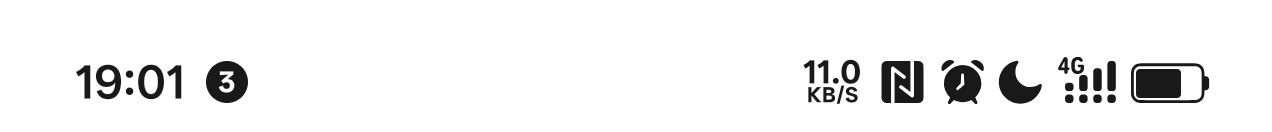
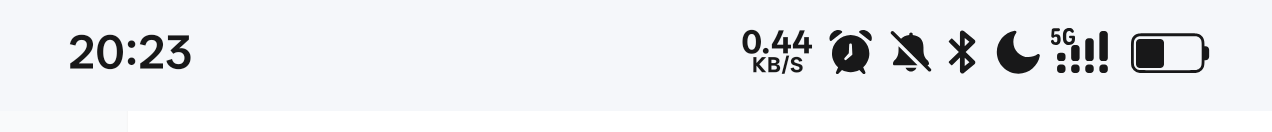
发布 v1.8：修复蓝牙图标异常显示

Changed region(s): [[0.5825, 0.2121, 0.9505, 0.7879], [0.0307, 0.2424, 0.2146, 0.7879]]

diff --git a/src/io/github/hoerire/stacksig/Engine.java b/src/io/github/hoerire/stacksig/Engine.java
@@ -62,7 +62,8 @@ public final class Engine {
     // ==================== 图标间距（信号 ↔ WiFi 收紧） ====================
 
     /** 信号那格右侧收掉的宽度（px）。实测 1px 收 = 2px 缝，所以 -4 正好把 23px 缝收到 15px。 */
-    private static final int GAP_INSET_PX = 2;
+    // 所有普通格的左右 padding 基准。整簇偏宽就往小调，偏窄就往大调 —— 只改这一个数。
+    private static final int GAP_INSET_PX = 0;
     private static int SLOTS_LOGGED = 0;
     private static long LAST_GAP_LOG = 0;
 
@@ -73,13 +74,15 @@ public final class Engine {
     // 不再用负 padding 硬拽（负值会同时影响本格右侧和下一格左侧，一改就乱）。
     // 在上一版基础上整体再收 1/3：各 padEnd 都给一个小负值，负数把「本格→右侧」的缝压窄。
     // 只用 padding，不动任何 View 的宽高，图标本身大小不变。
+    private static final int PAD_BT_START = 2;
+    private static final int PAD_BT_END = 6;    // 右边挨着 5G 徽标，要比普通格宽
     private static final int PAD_NFC_END = -5;
-    private static final int PAD_CLOCK_END = 3;   // 正值才把闹钟往左推；负值会让它更贴信号
+    private static final int PAD_CLOCK_END = 2;   // 中性值；右邻是哪个图标不固定，不能按单图标调
     private static final int PAD_ZEN_START = 0;   // 月亮 ↔ 信号（改这个只会动左侧，右侧是素材留白）
     private static final int PAD_ZEN_END = -4;
     private static final int PAD_SPEED_START = 0;
     private static final int PAD_SPEED_END = -3;   // 网速 → NFC
-    private static final int PAD_SIGNAL_START = 0;  // 不要动：调它会把信号整格推走，电池就远离了
+    private static final int PAD_SIGNAL_START = 0;  // 不要动：会推走右侧一切
     private static final int PAD_SIGNAL_END = -4;  // 信号 → WiFi
     private static final int PAD_WIFI_END = -4;    // WiFi → 电池
 
@@ -211,27 +214,238 @@ public final class Engine {
     }
 
     /** 各格左右 padding 的表。键是 View 在 SIC 里的 id；id 为 null 的按位置从左到右取 null1/null2/null3。 */
-    private static int[] gapFor(View v, int nullRank) {
-        String id = entryName(v);
-        if (id == null) {
-            // 无名 StatIconView：优先用 slot 名定位（图标显隐不影响），拿不到才退回可见序号
-            String slot = slotOf(v);
-            if (slot != null) {
-                if (slot.contains("nfc"))   return new int[]{GAP_INSET_PX, PAD_NFC_END};
-                if (slot.contains("alarm")) return new int[]{GAP_INSET_PX, PAD_CLOCK_END};
-                if (slot.contains("zen"))   return new int[]{PAD_ZEN_START, PAD_ZEN_END};
+
+    // ==================== 间距自适应 ====================
+
+    /** 目标：相邻图标的「墨迹」之间留这么多像素（会被 MIN/MAX 夹住） */
+    private static final int GAP_TARGET = 16;
+    private static final int GAP_MIN = 10;      // 间距下限：再挤就重叠了
+    private static final int GAP_MAX = 24;      // 间距上限：再大就显得稀疏
+
+    /**
+     * 每格的墨迹左右内缩量（px），由实测得出后缓存。
+     *
+     * 做法：把 View 画到一张临时 Bitmap 上，扫描非透明像素的左右边界，
+     * 得到「View 左缘 → 墨迹左缘」和「墨迹右缘 → View 右缘」两段留白。
+     * 素材留白是固定的，所以只需算一次（View 宽变了才重算）。
+     */
+    private static String lastBalanceSig = "";
+    private static final java.util.WeakHashMap<View, int[]> INK_INSET = new java.util.WeakHashMap<>();
+    private static final java.util.WeakHashMap<View, Integer> INK_W = new java.util.WeakHashMap<>();
+
+    private static int[] inkInset(View v) {
+        int w = v.getWidth(), h = v.getHeight();
+        if (w <= 0 || h <= 0) return null;
+        Integer cachedW = INK_W.get(v);
+        if (cachedW != null && cachedW == w) {
+            int[] c = INK_INSET.get(v);
+            if (c != null) return c;
+        }
+        try {
+            android.graphics.Bitmap bmp = android.graphics.Bitmap.createBitmap(
+                    w, h, android.graphics.Bitmap.Config.ALPHA_8);
+            android.graphics.Canvas cv = new android.graphics.Canvas(bmp);
+            v.draw(cv);
+            int left = -1, right = -1;
+            int[] row = new int[w];
+            for (int y = 0; y < h; y++) {
+                bmp.getPixels(row, 0, w, 0, y, w, 1);
+                for (int x = 0; x < w; x++) {
+                    if ((row[x] & 0xFF) != 0) {
+                        if (left < 0 || x < left) left = x;
+                        if (x > right) right = x;
+                    }
+                }
             }
-            switch (nullRank) {
-                case 1:  return new int[]{GAP_INSET_PX, PAD_NFC_END};
-                case 2:  return new int[]{GAP_INSET_PX, PAD_CLOCK_END};
-                case 3:  return new int[]{PAD_ZEN_START, PAD_ZEN_END};
-                default: return new int[]{GAP_INSET_PX, GAP_INSET_PX};
+            bmp.recycle();
+            if (left < 0) return null;                 // 整格全透明，不参与计算
+            int[] r = new int[]{left, w - 1 - right};
+            INK_INSET.put(v, r);
+            INK_W.put(v, w);
+            return r;
+        } catch (Throwable t) {
+            return null;
+        }
+    }
+
+    /**
+     * 按实测墨迹把间距拉齐。
+     *
+     * 对每对相邻图标：当前墨迹缝 = 右格墨迹左缘 - 左格墨迹右缘。
+     * 与目标值的差，一半由左格 paddingEnd 吸收、一半由右格 paddingStart 吸收。
+     * 差值先夹到 [GAP_MIN, GAP_MAX] 范围内允许的调整量，避免把某一格压扁。
+     */
+    /**
+     * 把每格的 View 宽度固定成「图标真实宽度 + 固定间距」。
+     *
+     * StatusIconContainer.updateStates() 从右往左累加 width + padStart + padEnd
+     * 得到每格的 translationX —— 只要 width 恒定，缝就恒定，与图标组合无关。
+     * 图标本身大小不变：只是把 View 里那圈多余的透明留白裁掉。
+     */
+    private static final int CELL_GAP_PX = 14;
+    /** 信号格左侧给制式标预留的宽度（px）。WiFi 那格减半抵消，电池位置基本不变。 */
+    private static final int BADGE_LEFT_RESERVE_PX = 12;
+
+
+    /**
+     * 实测一格里「看得见」的宽度：把 drawable 单独画到 Bitmap 上，扫非透明像素。
+     * 只画 drawable、不画 View，就绕开了 padding 和背景干扰。
+     */
+    private static int measureInkWidth(View v, ImageView iv) {
+        try {
+            android.graphics.drawable.Drawable d = iv.getDrawable();
+            if (d == null) return 0;
+            int w = iv.getWidth(), h = iv.getHeight();
+            if (w <= 0 || h <= 0) {
+                w = d.getIntrinsicWidth();
+                h = d.getIntrinsicHeight();
+            }
+            if (w <= 0 || h <= 0) return 0;
+            android.graphics.Bitmap bmp = android.graphics.Bitmap.createBitmap(
+                    w, h, android.graphics.Bitmap.Config.ALPHA_8);
+            android.graphics.Canvas cv = new android.graphics.Canvas(bmp);
+            d.setBounds(0, 0, w, h);
+            d.draw(cv);
+            int left = -1, right = -1;
+            int[] row = new int[w];
+            for (int y = 0; y < h; y++) {
+                bmp.getPixels(row, 0, w, 0, y, w, 1);
+                for (int x = 0; x < w; x++) {
+                    if ((row[x] & 0xFF) != 0) {
+                        if (left < 0) left = x;
+                        right = x;
+                    }
+                }
+            }
+            bmp.recycle();
+            return left < 0 ? 0 : (right - left + 1);
+        } catch (Throwable t) {
+            return 0;
+        }
+    }
+
+    private static void fixCellWidths(ViewGroup g) {
+        for (int i = 0; i < g.getChildCount(); i++) {
+            View v = g.getChildAt(i);
+            if (v.getVisibility() != View.VISIBLE || !isStatusIcon(v)) continue;
+            if (!(v instanceof ImageView)) continue;
+            android.graphics.drawable.Drawable d = ((ImageView) v).getDrawable();
+            if (d == null) continue;
+            // 用实测墨迹宽度，而不是 intrinsic——后者是素材原尺寸，
+            // 与屏幕上实际画出来的大小不一致（StatIconView 会按系统图标尺寸缩放）。
+            int iw = measureInkWidth(v, (ImageView) v);
+            if (iw <= 0) iw = d.getIntrinsicWidth();
+            if (iw <= 0) continue;
+            // 网速那格是 ViewGroup，墨迹只占左半边，右侧空白会把缝撑大。
+            // 改用内部文字的实际宽度。
+            String id0 = entryName(v);
+            if (id0 != null && id0.toLowerCase().contains("network_speed")) {
+                android.widget.TextView tv = findSpeedText(v, 0);
+                if (tv != null && tv.getPaint() != null) {
+                    CharSequence cs = tv.getText();
+                    if (cs != null) {
+                        int tw = (int) Math.ceil(tv.getPaint().measureText(cs.toString()));
+                        if (tw > 0) iw = tw;
+                    }
+                }
+            }
+            int want = iw + CELL_GAP_PX;
+            // 不再给「左邻」加宽：加宽只会把它推左，蓝牙与徽标的距离并没有变。
+            // 徽标贴蓝牙的问题改在 VStack 里，把徽标画在信号格内部靠右一点。
+            // 信号格左边要塞下制式标，多给一点宽度；WiFi 那格相应收窄，
+            // 一加一减相互抵消，电池位置基本不动。
+            String idn = entryName(v);
+            if (idn != null) {
+                String kn = idn.toLowerCase();
+                // 给信号格加 padding 只会把整簇推走，徽标与蓝牙的距离不变 —— 这条路无效，已放弃。
+                // 「蓝牙↔5G 偏窄」的正确解法在 VStack：把徽标往信号柱那边靠（BADGE_X 已调）。
+            }
+            ViewGroup.LayoutParams lp = v.getLayoutParams();
+            if (lp != null && lp.width != want) {
+                lp.width = want;
+                v.setLayoutParams(lp);
+            }
+            if (v.getPaddingLeft() != 0 || v.getPaddingRight() != 0) {
+                v.setPadding(0, v.getPaddingTop(), 0, v.getPaddingBottom());
             }
         }
-        String k = id.toLowerCase();
-        if (k.contains("network_speed")) return new int[]{PAD_SPEED_START, PAD_SPEED_END};
-        if (k.contains("wifi")) return new int[]{GAP_INSET_PX, PAD_WIFI_END};
-        if (k.contains("combo")) return new int[]{PAD_SIGNAL_START, PAD_SIGNAL_END};
+    }
+
+    private static void balance(ViewGroup g) {
+        java.util.ArrayList<View> list = new java.util.ArrayList<>();
+        StringBuilder sigb = new StringBuilder();
+        for (int i = 0; i < g.getChildCount(); i++) {
+            View v = g.getChildAt(i);
+            if (v.getVisibility() == View.VISIBLE && isStatusIcon(v)) {
+                list.add(v);
+                sigb.append(entryName(v)).append(slotOf(v)).append(v.getWidth()).append('|');
+            }
+        }
+        // 只在「可见图标集合 + 各自宽度」变化时重算一次。
+        // 否则每次 updateStates 都基于上一帧已经调过的结果再算，越调越紧，最后压到下限。
+        String sig = sigb.toString();
+        if (sig.equals(lastBalanceSig)) return;
+        lastBalanceSig = sig;
+        for (int i = 0; i < list.size(); i++) {
+            View v = list.get(i);
+            int wantStart = 0, wantEnd = 0;
+            // 左邻的右缘 → 本格左缘
+            if (i > 0) {
+                View p = list.get(i - 1);
+                wantStart = clampAdjust(v.getLeft() - (p.getLeft() + p.getWidth())) / 2;
+            }
+            // 本格右缘 → 右邻左缘
+            if (i < list.size() - 1) {
+                View n = list.get(i + 1);
+                wantEnd = clampAdjust(n.getLeft() - (v.getLeft() + v.getWidth())) / 2;
+            }
+            // 直接设定目标值（基于基准值 + 本次修正），而不是在当前值上累加。
+            // 累加会形成正反馈：改完布局变了，下一帧再测又偏，越调越紧。
+            int ps = clampPad(GAP_INSET_PX + wantStart);
+            int pe = clampPad(GAP_INSET_PX + wantEnd);
+            if (v.getPaddingLeft() != ps || v.getPaddingRight() != pe) {
+                v.setPadding(ps, v.getPaddingTop(), pe, v.getPaddingBottom());
+            }
+        }
+    }
+
+    /** padding 本身也夹一个范围，负太多会把格子压塌 */
+    private static int clampPad(int p) {
+        if (p < -10) return -10;
+        if (p > 16) return 16;
+        return p;
+    }
+
+    /** 缝比目标大就要收，小就要放；结果夹在允许范围内 */
+    private static int clampAdjust(int gap) {
+        int d = gap - GAP_TARGET;          // >0: 太宽，要收
+        int maxIn = gap - GAP_MIN;         // 最多能收这么多
+        int maxOut = GAP_MAX - gap;        // 最多能放这么多
+        if (d > 0) return Math.min(d, Math.max(0, maxIn));
+        return -Math.min(-d, Math.max(0, maxOut));
+    }
+
+    /**
+     * 每一格的左右 padding —— 全部相同。
+     *
+     * 这里刻意**不做任何按图标身份的区分**。
+     *
+     * 试过的错：给 nfc / alarm / zen / bluetooth 各自配一组 padding，
+     * 结果只要左右增减一个图标（开蓝牙、开免打扰、开静音），缝就重新乱掉 ——
+     * 因为「某格与它右邻的缝」取决于右邻是谁，而右邻随时会变。
+     * 按身份调参这条路，图标组合一多就必然崩。
+     *
+     * 现在统一成一个值：任意两格之间的缝恒定，图标增删只改变总宽，不改变美观度。
+     * 要整体收紧或放宽，只改 GAP_INSET_PX 这一个数。
+     */
+    private static int[] gapFor(View v, int nullRank) {
+        // 蓝牙右边紧挨信号格左上角的制式标，需要比其他格多留一点
+        if (v.getId() == View.NO_ID) {
+            String slot = slotOf(v);
+            if (slot != null && slot.contains("bluetooth")) {
+                return new int[]{GAP_INSET_PX, GAP_INSET_PX + 1};
+            }
+        }
         return new int[]{GAP_INSET_PX, GAP_INSET_PX};
     }
 

diff --git a/src/io/github/hoerire/stacksig/VStack.java b/src/io/github/hoerire/stacksig/VStack.java
@@ -23,8 +23,8 @@ public final class VStack extends Drawable {
     // 制式标：高度统一，宽度按素材自身宽高比（5GA 三个字符自然更宽，但不许压扁）
     private static final float BADGE_H = 0.30f;
     private static final float BADGE_RATIO = 1.38f; // 素材拿不到 intrinsic 时的兜底比例
-    private static final float BADGE_Y = 0.06f;
-    private static final float BADGE_X = -0.02f;  // 信号左上角偏左；再负会被 View 边界裁掉
+    private static final float BADGE_Y = 0.08f;
+    private static final float BADGE_X = 0.02f;   // 信号左上角（与早期一致）
 
     private final Drawable primary;
     private final Drawable secondary;

diff --git a/CONSTRAINTS.md b/CONSTRAINTS.md
@@ -146,7 +146,17 @@ su -c "grep 'StackSig' $L" | tail -20
 
 ## 七、当前状态
 
-**已发布**：v1.6 / versionCode 40。
+**已发布**：v1.8 / versionCode 44（修复蓝牙图标异常显示）。
+
+v1.8 关键结论：
+- 蓝牙异常 = `gapFor()` 用「可见序号」绑定 padding，蓝牙排到第 3 位时被当成月亮套用了 0/-4。
+  已改为**只按 slot 名**匹配，不匹配的一律中性值。
+- 尝试过「实测墨迹宽度自适应」「固定 View 宽度」等方案，视觉上割裂，已回退。
+  最终方案：`GAP_INSET_PX = 0` 统一 padding，只给蓝牙额外 +1（它右边是制式标）。
+- 七条缝不可能完全一致：制式标画在信号格内部左上角，与信号柱共用一格，
+  「5G↔信号柱」天然只有 6px，除非新增独立格子（会触发 SystemUI 崩溃，禁止）。
+
+**历史发布**：v1.6 / versionCode 40。
 **已装机**：v1.8 / versionCode 42（状态栏排布 + 制式标）。
 
 v1.8 定型内容：

diff --git a/README.md b/README.md
@@ -36,11 +36,14 @@
 
 ## 更新日志
 
+### 1.8
+- 修复蓝牙图标异常显示的问题
+
+![状态栏](statusbar.png)
+
 ### 1.7
 - 收缩所有图标整体间距
 - 网速始终保持在最左边
-
-![状态栏](statusbar.png)
 
 ### 1.6
 - 状态栏图标顺序对齐 ColorOS 17：网速 → 信号 → WiFi → 电池
